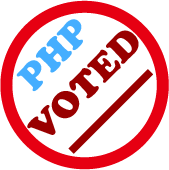
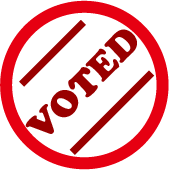
rwd 1

diff --git a/css/table.css b/css/table.css
@@ -1,7 +1,7 @@
 .table_list{
     width: 60%;
     margin: 10px auto;
-    min-width: 540px;
+    min-width: 360px;
 }
 .table_head,.items{
     display: grid;
@@ -30,7 +30,8 @@
 .front_table{
     width: 60%;
     margin: 20px auto 120px;
-    min-width: 540px;   
+    min-width: 360px;   
+    
 }
 .front_items{
     display: grid;

diff --git a/css/back.css b/css/back.css
@@ -50,7 +50,7 @@ h1,h3{
 }
 .item , .users, h1{
     width: 68%;
-    min-width: 560px;
+   
 }
 
 .operate {
@@ -252,7 +252,7 @@ a.now {
 #coverr
 {
 	width:70%;
-	min-width:300px;
+	min-width:380px;
 	max-width:800px;
 	height:70%;
 	min-height:300px;

diff --git a/css/cords_ajax.css b/css/cords_ajax.css
@@ -65,6 +65,11 @@
         grid-template-columns: repeat(2, 1fr);
     }
 }
+@media screen and (max-width:550px) {
+    .asb {
+        grid-template-columns:  1fr;
+    }
+}
 .user {
     text-align: center;
     font-size: 40px;

diff --git a/front/main.php b/front/main.php
@@ -48,6 +48,7 @@
             z-index: 100;
             padding-bottom: 20px;
             box-shadow: 1px 1px 10px #999;
+            
         }
 
         .in_show,
@@ -56,13 +57,16 @@
             transition: all 1.5s ease-in-out;
             opacity: 0;
         }
+     
     </style>
     <!--↓↓↓↓↓↓↓↓↓↓ 一般會員　↓↓↓↓↓↓↓↓↓↓-->
     <div id="cover" style="display:none;min-width:380px ">
-        <div id="coverr" style="min-width:380px;padding: 5px;">
-            <div id="cvr" class="sh" style="position:absolute; width:60%; min-width:380px; min-height:560px; margin:auto; margin-bottom:20px; transform:translate(-50%,-10%);  background-color:#fff;  border-radius: 20px;  background-color:#fff;">
+        <div id="coverr" style="padding:5px;">
+            <div id="cvr" class="sh" style="position:absolute; width:60%; min-width:380px; min-height:560px; margin:auto; margin-bottom:20px; transform:translate(-50%,-10%);  background-color:#fff;  border-radius: 20px; ">
             </div>
-            <a style="position:absolute; color:#00f; transform:translate(-50%,0%);  right:5%; top:5%; cursor:pointer; z-index: 100;" onclick="cl('#cover')">X</a>
+           
+            <a style="position:sticky; color:#00f;left:95%; top:5%; cursor:pointer; z-index: 100;" onclick="cl('#cover')">X</a>
+            
         </div>
     </div>
 
@@ -82,6 +86,7 @@
             border-bottom: 5px solid var(--darkBlue);
             padding: 10px auto;
             margin: 48px auto 0;
+            font-weight: bold;
         }
 
         .btn-sub {
@@ -90,14 +95,15 @@
             border-color: var(--skyblue);
         }
     </style>
-    <h3 class="block in_show sub_vote">To experience
+    <h3 class="block in_show sub_vote">TO &nbsp;EXPERIENCE
+        
         <div style="  padding: 10px auto; "></div>
     </h3>
     <div class="table_list block in_show">
         <div class="table_head sub" ">
-            <div>theme</div>
-            <div>participant</div>
-            <div>vote</div>
+            <div>Theme</div>
+            <div>Participant</div>
+            <div>Vote</div>
         </div>
     </div>
     <div class=" front_table block in_show">
@@ -105,8 +111,8 @@
             $surveys = $subject->all(['acive' => 1, 'level' => 0]); //啟動
             foreach ($surveys as $key => $survey) {
             ?>
-                <div class="front_items block in_show" style="line-height:48px;">
-                    <div><?= $survey['subject'] ?></div>
+                <div class="front_items block in_show" style="line-height:48px; color:var(--blue);">
+                    <div style="line-height: 20px;"><?= $survey['subject'] ?></div>
                     <div><?= $survey['vote'] ?></div>
                     <div>
                         <a class="btn btn-lg btn-ss mx-1" onclick="op('#cover','#cvr','./front/survey_item.php?id=<?= $survey['id']; ?>')">投票</a>
@@ -174,6 +180,7 @@
         z-index: 100;
         box-shadow: 1px 1px 5px var(--blue);
         padding-bottom: 20px;
+        /* position: fixed; */
     }
 </style>
 <?php
@@ -188,7 +195,7 @@ if (isset($_SESSION['login'])) {
     <div id="coverr_user" style="min-width:480px">
         <div id="cvr_user" class="she" style="position:absolute; width:72%; min-width:320px; min-height:560px; margin:auto; transform:translate(-50%,6%); background-color:#fff;  border-radius: 20px;  background-color:#fff;">
         </div>
-        <a style="position:absolute; color:#00f; transform:translate(-50%,10%);  right:5%; top:8%;  cursor:pointer; z-index: 100;" onclick="cl('#cover_user')">X</a>
+        <a style="position:sticky; color:#00f; transform:translate(-50%,10%);left:95%; top:8%;  cursor:pointer; z-index: 100;" onclick="cl('#cover_user')">X</a>
     </div>
 </div>
 <link rel="stylesheet" href="./css/cords_ajax.css">
@@ -238,7 +245,7 @@ if (isset($_SESSION['login'])) {
                                     </div>
                                 </div>
                                 <div style="padding-top:10px;">
-                                    <img src="./photo/voted2.png " style=" background-repeat:no-repeat;" alt="votefor" width="80%">
+                                    <img src="./photo/voted3.png " style=" background-repeat:no-repeat;" alt="votefor" width="80%">
                                 </div>
                             </div>
                         </div>
@@ -307,7 +314,7 @@ if (isset($_SESSION['login'])) {
         margin: 40px auto 0 auto;
         height: 320px;
         line-height: 320px;
-        background-color: var(--fadeBlue);
+        background-color: var(--blue);
         color: #eee;
     }
 
@@ -332,33 +339,60 @@ if (isset($_SESSION['login'])) {
     // 進入範圍，transform  // 離開時重製 。
     $('.block').addClass('in_show');
 
+    // $(window).on('scroll', function() {
+    //     $('.in_show').each(function() {
+    //         let card = $('.in_show_card');
+    //         let hiddenBlock = $(this);
+    //         let hiddenBlockTop = hiddenBlock.offset().top;
+    //         let hiddenBlockHeight = hiddenBlock.outerHeight();
+    //         let windowHeight = $(window).height();
+    //         let scrollTop = $(window).scrollTop();
+
+    //         if (hiddenBlockTop + hiddenBlockHeight >= scrollTop && hiddenBlockTop <= scrollTop + windowHeight) {
+    //             hiddenBlock.css({
+    //                 // 'transform': 'translateX(0%)',
+    //                 'opacity': '1'
+                    
+    //             }, function() {});
+    //             card.fadeIn(1800);
+    //         } else {
+    //             hiddenBlock.css({
+    //                 // 'transform': 'translateX(-100%)',
+    //                 'opacity': '0'
+                   
+    //             });
+    //             card.fadeOut(1800);
+    //         }
+    //     });
+    // });
+
+        //重置一次 上到下
     $(window).on('scroll', function() {
+        // var windowHeight = $(window).height();
+        let windowHeight = window.innerHeight;
+
         $('.in_show').each(function() {
             let card = $('.in_show_card');
             let hiddenBlock = $(this);
             let hiddenBlockTop = hiddenBlock.offset().top;
-            let hiddenBlockHeight = hiddenBlock.outerHeight();
-            let windowHeight = $(window).height();
-            let scrollTop = $(window).scrollTop();
-
-            if (hiddenBlockTop + hiddenBlockHeight >= scrollTop && hiddenBlockTop <= scrollTop + windowHeight) {
+            if (hiddenBlockTop <= ($(window).scrollTop() + windowHeight - 80)) {
                 hiddenBlock.css({
                     // 'transform': 'translateX(0%)',
                     'opacity': '1'
-                    
                 }, function() {});
                 card.fadeIn(1800);
             } else {
                 hiddenBlock.css({
                     // 'transform': 'translateX(-100%)',
                     'opacity': '0'
-                   
-                });
-                card.fadeOut(1800);
+                })
             }
+
+            // console.log('to_TOP_H',$(window).scrollTop());
+            // console.log('window_H',windowHeight);
+            // console.log('Obj_H',hiddenBlockTop);
         });
     });
-
 
     $(window).on('scroll', function() {
         // var windowHeight = $(window).height();
@@ -387,7 +421,7 @@ if (isset($_SESSION['login'])) {
         });
     });
 
-
+//bootstrap 提示
     let tooltipTriggerList = [].slice.call(document.querySelectorAll('[data-bs-toggle="tooltip"]'))
     let tooltipList = tooltipTriggerList.map(function(tooltipTriggerEl) {
         return new bootstrap.Tooltip(tooltipTriggerEl)

diff --git a/front/survey_item.php b/front/survey_item.php
@@ -126,7 +126,7 @@ if (isset($_GET['id'])) {
         overflow: auto;
     }
 
- .option_select:hover{
+ .option_select:hover,.opt:hover{
     cursor: pointer;
     background-color: #ccccee90;
  }
@@ -146,18 +146,20 @@ if (isset($_GET['id'])) {
                 <div class="radio">
                     <input type="radio" name="option" <?= $checked ?> value="<?= $option['id'] ?>">
                 </div>
-                <div class="form-control option_select" style='position:relative;'>
                 <?php 
-                    if(strlen($option['opt'])>28){
+                    if(strlen($option['opt']) > 28){
+                        echo "<div class='form-control option_select' style='position:relative;'>";
                        echo mb_substr($option['opt'], 0, 12) . "..."; 
                 ?>
                     <span class="all" style="display:none;"><?= $option['opt'] ?></span>
                     <div id="all_show"></div>
+                </div>
                     <?php } else {
+                        echo "<div class='form-control opt' style='position:relative;'>";
                         echo $option['opt']; 
+                        echo "</div>";
                      } ?>
 
-                </div>
 
         <?php
             }
